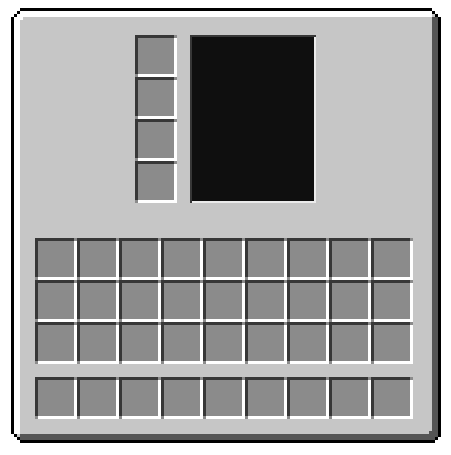
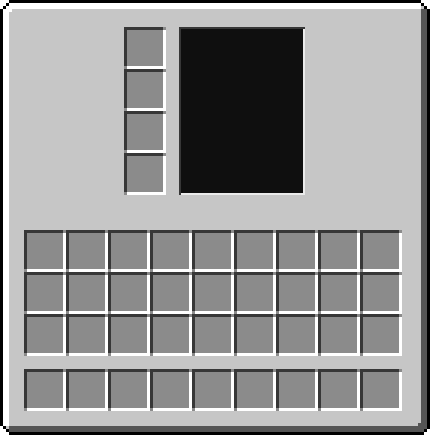
A lot closer to a working Inventory

diff --git a/src/main/java/useless/legacyui/Gui/GuiScreens/GuiLegacyInventory.java b/src/main/java/useless/legacyui/Gui/GuiScreens/GuiLegacyInventory.java
@@ -20,6 +20,7 @@ import java.util.List;
 
 public class GuiLegacyInventory extends GuiInventory {
     private static int GUIx;
+    private static final int guiTextureWidth = 435;
     private static int GUIy;
     protected GuiAuditoryButton craftButton;
     protected EntityPlayer player;
@@ -34,8 +35,8 @@ public class GuiLegacyInventory extends GuiInventory {
         // Setup size variables
         xSize = 430;
         ySize = 435;
-        GUIx = (this.width - this.xSize) / 11;
-        GUIy = (this.height - this.ySize) / 8;
+        GUIx = (this.width - this.xSize) / 2;
+        GUIy = (this.height - this.ySize) / 2;
 
         // Create Crafting Button
         craftButton = new GuiAuditoryButton(10, GUIx + 138, GUIy + 33, 20, 21, "");
@@ -76,24 +77,24 @@ public class GuiLegacyInventory extends GuiInventory {
 
     protected void drawGuiContainerBackgroundLayer(float renderPartialTick) {
         UtilGui.bindTexture("/assets/legacyui/gui/lce-inventory-ui.png");
-        this.drawTexturedModalRect(GUIx, GUIy, 0, 0, this.xSize, this.ySize);
+        UtilGui.drawTexturedModalRect(this, GUIx, GUIy, 0, 0, this.xSize, this.ySize, 1f/guiTextureWidth);
         renderPlayerDoll();
-        drawStringNoShadow(fontRenderer, I18n.getInstance().translateKey("legacyui.guilabel.inventory"),GUIx + 39,GUIy +209, ModSettings.Colors.GuiLabelColor());
+        drawStringNoShadow(fontRenderer, I18n.getInstance().translateKey("legacyui.guilabel.inventory"),GUIx + 28,GUIy +226, ModSettings.Colors.GuiLabelColor());
     }
     private void renderPlayerDoll(){
         GL11.glEnable(32826);
         GL11.glEnable(2903);
         GL11.glEnable(2929);
         GL11.glPushMatrix();
-        GL11.glTranslatef(GUIx + 252, GUIy + 188, 50.0f);
+        GL11.glTranslatef(GUIx + 242, GUIy + 184, 50.0f);
         float f1 = 30.0f;
         GL11.glScalef(-f1, f1, f1);
         GL11.glRotatef(180.0f, 0.0f, 0.0f, 1.0f);
         float f2 = this.mc.thePlayer.renderYawOffset;
         float f3 = this.mc.thePlayer.yRot;
         float f4 = this.mc.thePlayer.xRot;
-        float f5 = (float)(GUIx + 51 + 44) - this.xSize_lo;
-        float f6 = (float)(GUIy + 75 - 50 - 5) - this.ySize_lo;
+        float f5 = (float)(GUIx + 242) - this.xSize_lo;
+        float f6 = (float)(GUIy + 37) - this.ySize_lo;
         GL11.glRotatef(135.0f, 0.0f, 1.0f, 0.0f);
         Lighting.enableLight();
         GL11.glRotatef(-135.0f, 0.0f, 1.0f, 0.0f);

diff --git a/src/main/java/useless/legacyui/Gui/Containers/LegacyContainerPlayerSurvival.java b/src/main/java/useless/legacyui/Gui/Containers/LegacyContainerPlayerSurvival.java
@@ -19,15 +19,15 @@ public class LegacyContainerPlayerSurvival extends ContainerPlayer {
             this.addSlot(new SlotNull(this.playerInv,index, -5000, -5000));
         }
         for (int index = 0; index < 4; ++index) { // Create Armor Slots
-            this.addSlot(new SlotArmor(this, inventory, inventory.getSizeInventory() - 1 - index, 139, 39 + index * 39, index));
+            this.addSlot(new SlotArmor(this, inventory, inventory.getSizeInventory() - 1 - index, 127, 27 + index * 42, index));
         }
         for (int row = 0; row < 3; ++row) { // Create Main Inventory Slots
             for (int column = 0; column < 9; ++column) {
-                this.addSlot(new Slot(inventory, column + (row + 1) * 9, 38 + column * 39, 241 + row * 39));
+                this.addSlot(new Slot(inventory, column + (row + 1) * 9, 24 + column * 42, 240 + row * 42));
             }
         }
         for (int column = 0; column < 9; ++column) { // Create Hotbar slots
-            this.addSlot(new Slot(inventory, column, 38 + column * 39, 380));
+            this.addSlot(new Slot(inventory, column, 24 + column * 42, 369));
         }
     }
     @Override
